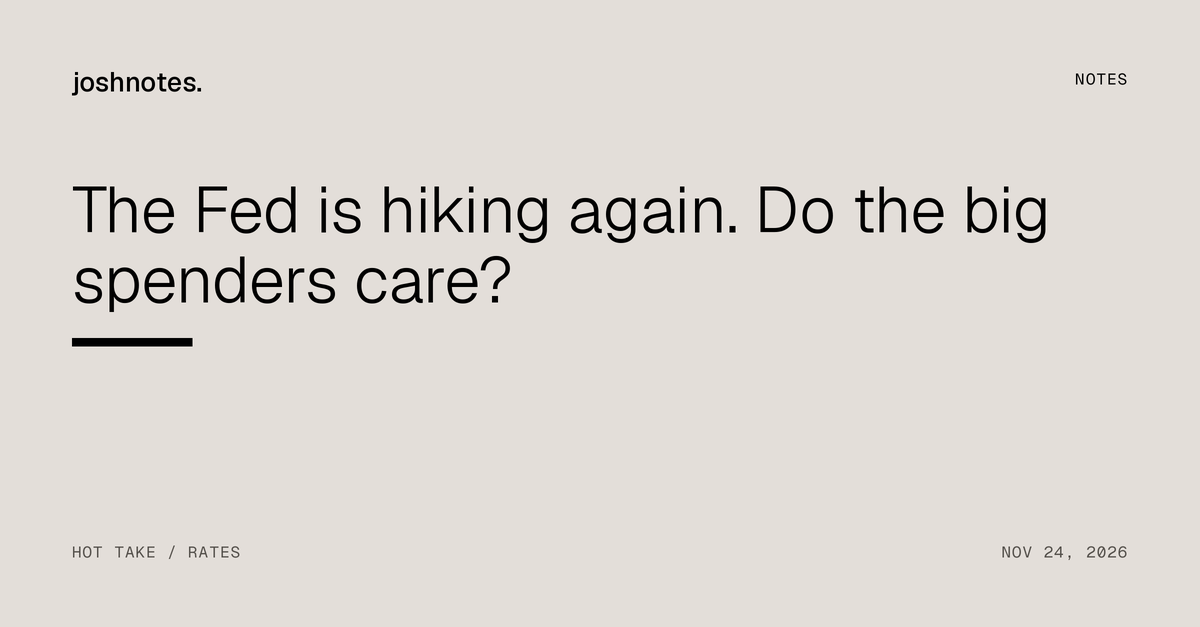
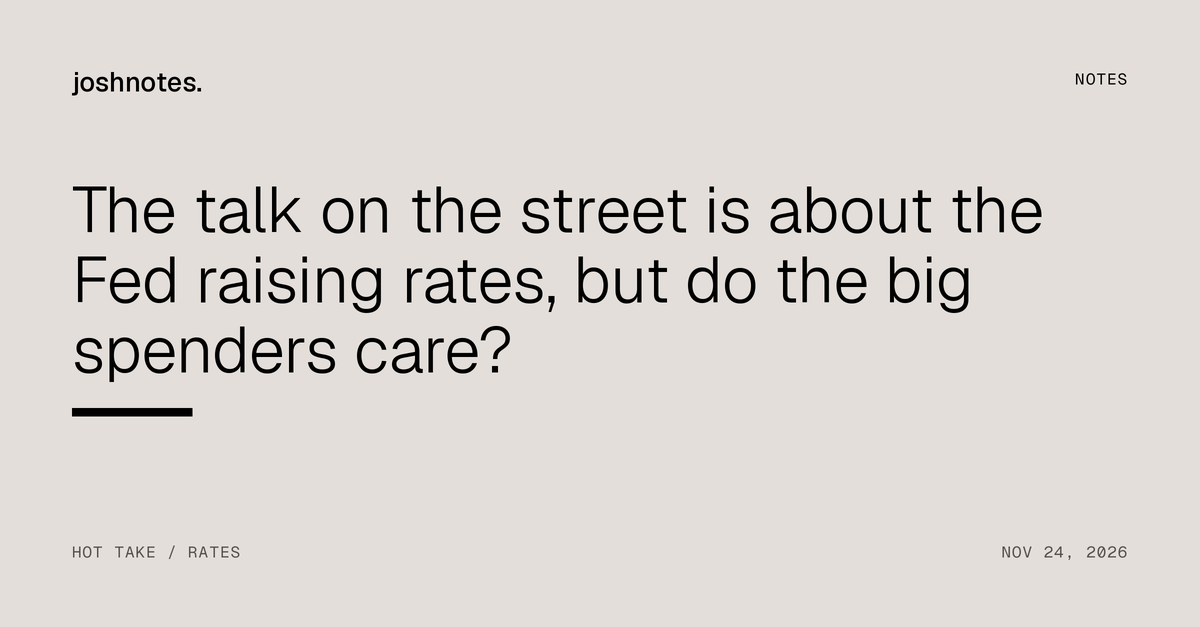
Notes: retitle the rate-hike note
Claude-Session: https://claude.ai/code/session_01Dc4KQMDr4px4SMpMrXU2Lh

Changed region(s): [[0.0617, 0.2727, 0.8942, 0.5152], [0.0617, 0.5152, 0.4317, 0.6061], [0.0617, 0.6364, 0.185, 0.6667]]

diff --git a/notes/rate-hike-big-spenders/index.html b/notes/rate-hike-big-spenders/index.html
@@ -3,18 +3,18 @@
 <head>
 <meta charset="utf-8">
 <meta name="viewport" content="width=device-width, initial-scale=1">
-<title>The Fed is hiking again. Do the big spenders care? | joshnotes</title>
+<title>The talk on the street is about the Fed raising rates, but do the big spenders care? | joshnotes</title>
 <meta name="description" content="A quarter point is the smallest number in the AI buildout. The money behind it is priced on what investors expect AI to earn, so the hike lands on stock prices and on the borrowers underneath, not on the spending.">
 <link rel="canonical" href="https://joshnotes.github.io/notes/rate-hike-big-spenders/">
 <meta property="og:site_name" content="joshnotes">
-<meta property="og:title" content="The Fed is hiking again. Do the big spenders care?">
+<meta property="og:title" content="The talk on the street is about the Fed raising rates, but do the big spenders care?">
 <meta property="og:description" content="A quarter point is the smallest number in the AI buildout. The money behind it is priced on what investors expect AI to earn, so the hike lands on stock prices and on the borrowers underneath, not on the spending.">
 <meta property="og:url" content="https://joshnotes.github.io/notes/rate-hike-big-spenders/">
 <meta property="og:type" content="article">
 <meta property="og:image" content="https://joshnotes.github.io/assets/og/notes-rate-hike-big-spenders.png">
 <meta property="og:image:width" content="1200">
 <meta property="og:image:height" content="627">
-<meta property="og:image:alt" content="The Fed is hiking again. Do the big spenders care?">
+<meta property="og:image:alt" content="The talk on the street is about the Fed raising rates, but do the big spenders care?">
 <meta name="twitter:card" content="summary_large_image">
 <meta property="article:published_time" content="2026-11-24">
 <meta property="article:author" content="Joshuva Johnson">
@@ -47,7 +47,7 @@
 <main id="main">
 <article class="artwrap gut">
   <p class="crumbs"><a href="/notes/">Notes</a><span>/</span><span>Hot take</span></p>
-  <h1>The Fed is hiking again. Do the big spenders care?</h1>
+  <h1>The talk on the street is about the Fed raising rates, but do the big spenders care?</h1>
   <p class="dek">A quarter point is the smallest number in the AI buildout. The money behind it is priced on what investors expect AI to earn, so the hike lands on stock prices and on the borrowers underneath, not on the spending.</p>
   <p class="byline"><b>Joshuva Johnson</b><time datetime="2026-11-24">Nov 24, 2026</time></p>
 <div class="prose">

diff --git a/notes/index.html b/notes/index.html
@@ -47,7 +47,7 @@
 <section class="gut" aria-label="All notes">
   <div class="wrap">
     <div class="grid2">
-      <a class="cardlink" href="/notes/rate-hike-big-spenders/"><div class="card"><h3>The Fed is hiking again. Do the big spenders care?</h3><p class="dek">A quarter point is the smallest number in the AI buildout. The money behind it is priced on what investors expect AI to earn, so the hike lands on stock prices and on the borrowers underneath, not on the spending.</p></div></a>
+      <a class="cardlink" href="/notes/rate-hike-big-spenders/"><div class="card"><h3>The talk on the street is about the Fed raising rates, but do the big spenders care?</h3><p class="dek">A quarter point is the smallest number in the AI buildout. The money behind it is priced on what investors expect AI to earn, so the hike lands on stock prices and on the borrowers underneath, not on the spending.</p></div></a>
       <a class="cardlink" href="/notes/capital-one-brex/"><div class="card"><h3>So Capital One acquired Brex, huh?</h3><p class="dek">The headline said $5.15 billion, 58% below Brex&#x27;s peak. Capital One actually paid about $4.5 billion, and what it bought looks better than the markdown story suggests.</p></div></a>
     </div>
   </div>

diff --git a/thoughts/rate-hike-big-spenders/index.html b/thoughts/rate-hike-big-spenders/index.html
@@ -1,1 +1,1 @@
-<!DOCTYPE html><html lang="en"><head><meta charset="utf-8"><title>The Fed is hiking again. Do the big spenders care? | joshnotes</title><link rel="canonical" href="https://joshnotes.github.io/notes/rate-hike-big-spenders/"><meta name="robots" content="noindex"><meta http-equiv="refresh" content="0; url=/notes/rate-hike-big-spenders/"><script>location.replace("/notes/rate-hike-big-spenders/"+location.hash)</script></head><body><p>This page moved to <a href="/notes/rate-hike-big-spenders/">The Fed is hiking again. Do the big spenders care?</a>.</p></body></html>
+<!DOCTYPE html><html lang="en"><head><meta charset="utf-8"><title>The talk on the street is about the Fed raising rates, but do the big spenders care? | joshnotes</title><link rel="canonical" href="https://joshnotes.github.io/notes/rate-hike-big-spenders/"><meta name="robots" content="noindex"><meta http-equiv="refresh" content="0; url=/notes/rate-hike-big-spenders/"><script>location.replace("/notes/rate-hike-big-spenders/"+location.hash)</script></head><body><p>This page moved to <a href="/notes/rate-hike-big-spenders/">The talk on the street is about the Fed raising rates, but do the big spenders care?</a>.</p></body></html>

diff --git a/notes/capital-one-brex/index.html b/notes/capital-one-brex/index.html
@@ -106,7 +106,7 @@
 <li><a href="https://www.fintechfutures.com/venture-capital-funding/ramp-reportedly-hits-60bn-valuation-in-1.85bn-funding-round">Ramp reportedly hits $60bn valuation</a>, Fintech Futures</li>
 </ol></section>
 
-  <nav class="pager" aria-label="More in Notes"><a class="nextup" href="/notes/rate-hike-big-spenders/"><p class="kick">Previous</p><h3>The Fed is hiking again. Do the big spenders care?</h3></a></nav>
+  <nav class="pager" aria-label="More in Notes"><a class="nextup" href="/notes/rate-hike-big-spenders/"><p class="kick">Previous</p><h3>The talk on the street is about the Fed raising rates, but do the big spenders care?</h3></a></nav>
 </article>
 </main>
 

diff --git a/src/content/notes/rate-hike-big-spenders.html b/src/content/notes/rate-hike-big-spenders.html
@@ -1,6 +1,6 @@
 <!--meta
 {
-  "title": "The Fed is hiking again. Do the big spenders care?",
+  "title": "The talk on the street is about the Fed raising rates, but do the big spenders care?",
   "dek": "A quarter point is the smallest number in the AI buildout. The money behind it is priced on what investors expect AI to earn, so the hike lands on stock prices and on the borrowers underneath, not on the spending.",
   "date": "2026-11-24",
   "section": "notes",

diff --git a/index.html b/index.html
@@ -133,7 +133,7 @@
       </section>
       <section aria-labelledby="latest-title">
         <h2 class="lbl" id="latest-title">Latest note</h2>
-        <a class="latest" href="/notes/rate-hike-big-spenders/">The Fed is hiking again. Do the big spenders care?</a>
+        <a class="latest" href="/notes/rate-hike-big-spenders/">The talk on the street is about the Fed raising rates, but do the big spenders care?</a>
       </section>
     </aside>
   </div>
